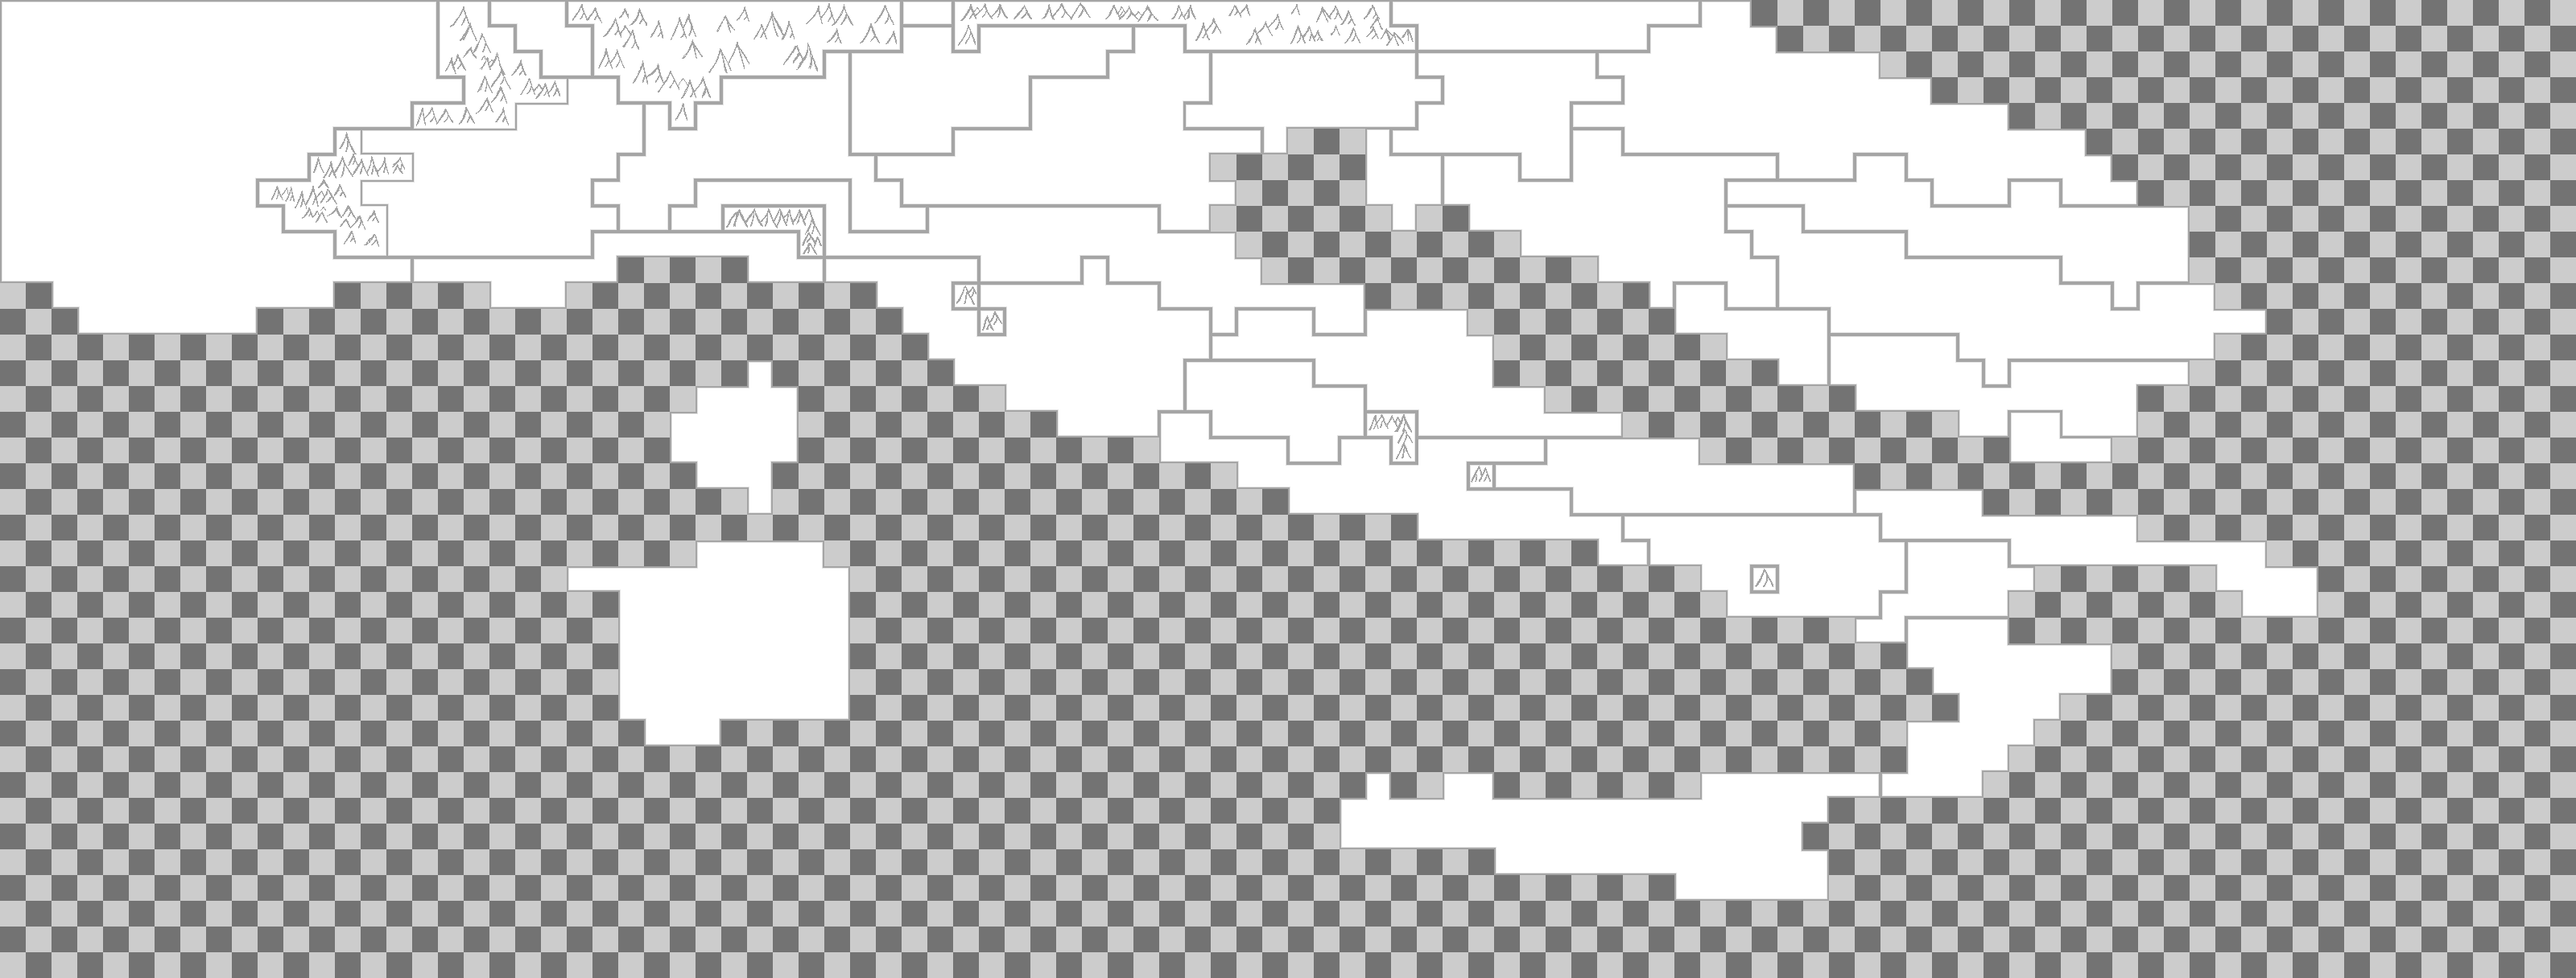
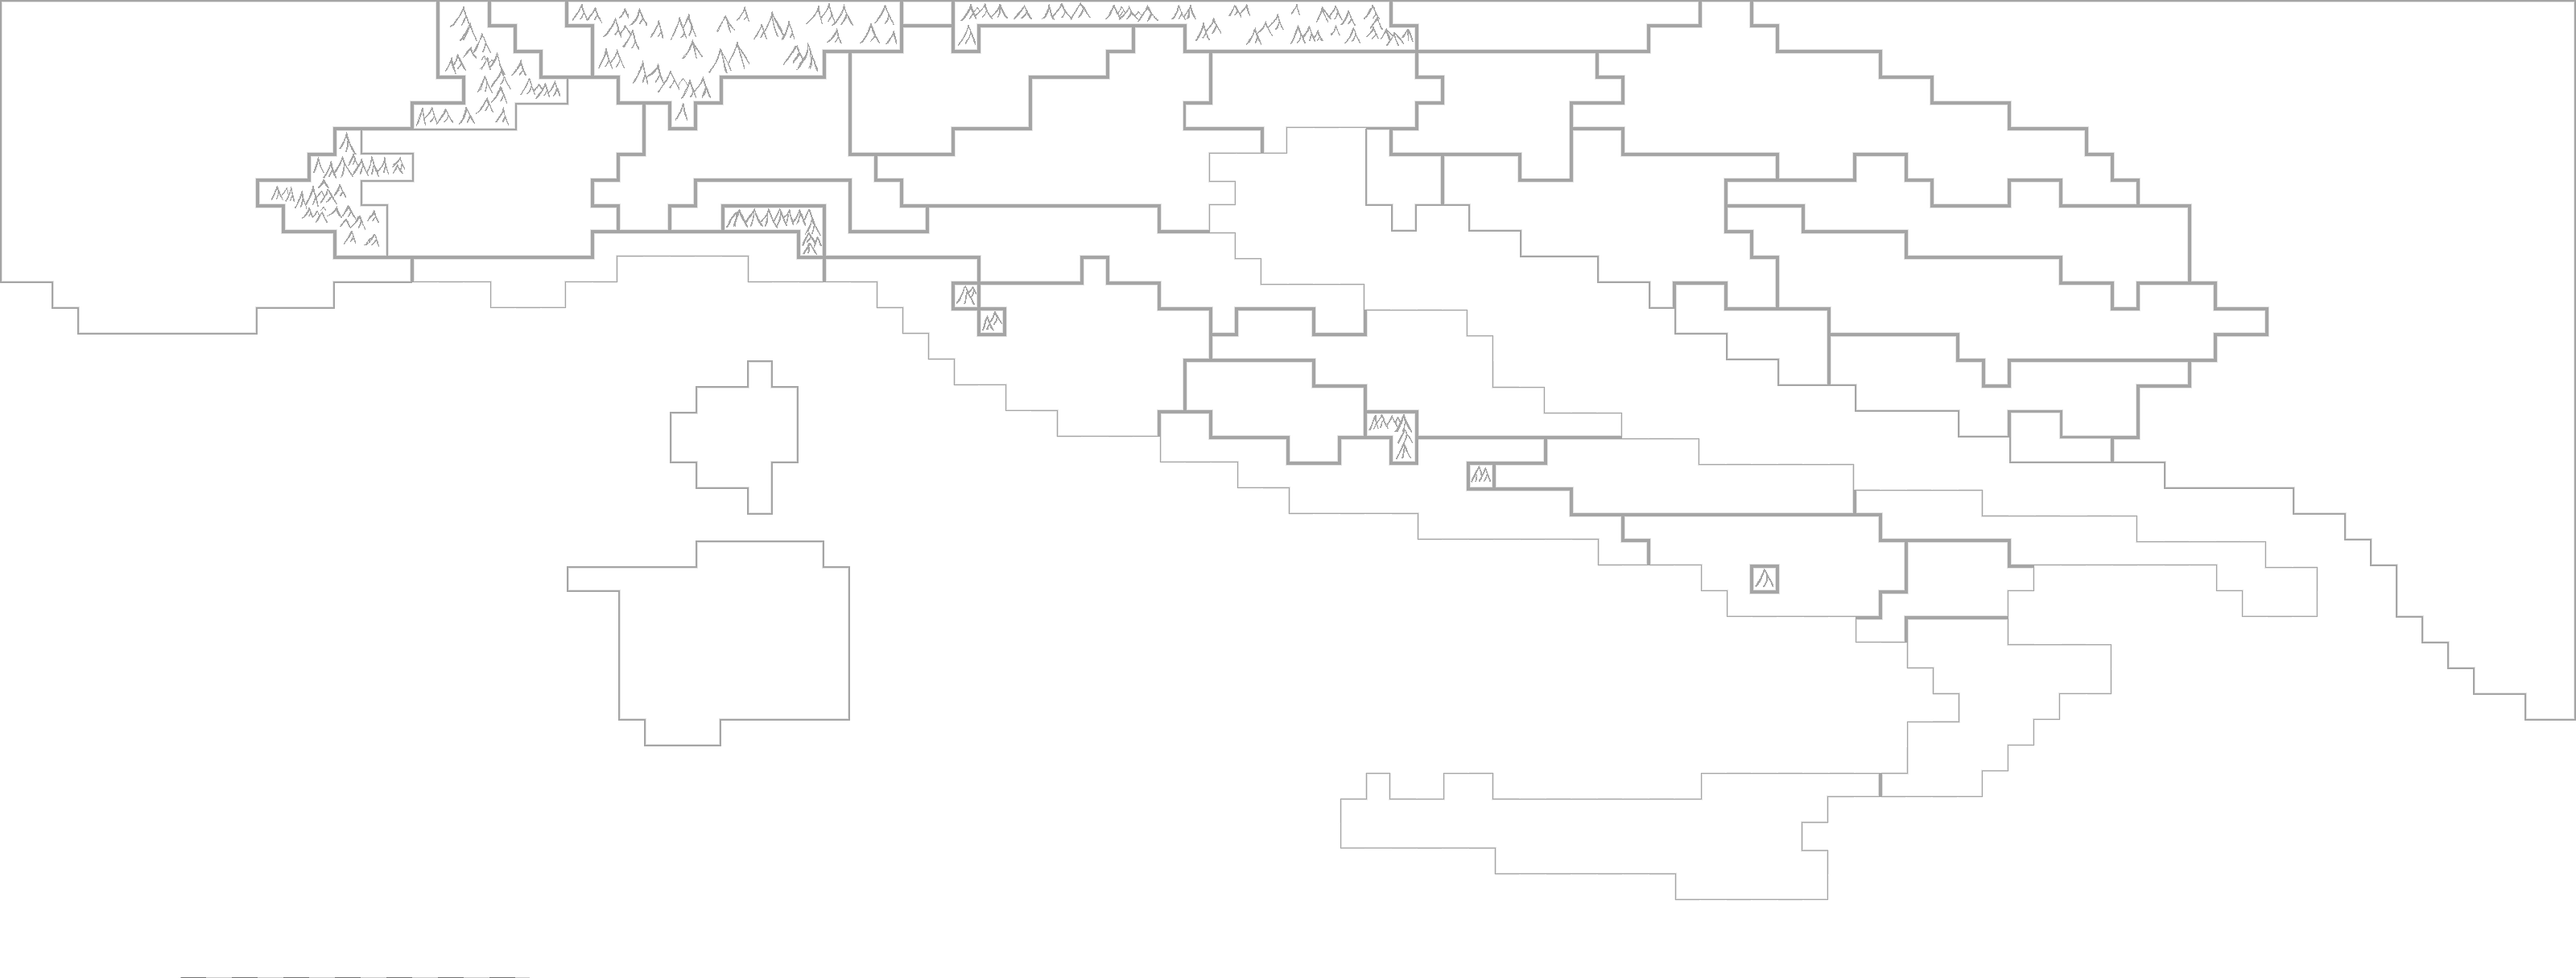
Groovy Wavy Water

diff --git a/DegreeProject/DegreeProject/Source/Game/Map/Map.cpp b/DegreeProject/DegreeProject/Source/Game/Map/Map.cpp
@@ -32,6 +32,11 @@ void Map::setLandTexture(sf::Texture tex)
 	m_Data.m_LandTexture = tex;
 }
 
+void Map::setResolution(const Vector2D& resolution)
+{
+	m_Resolution = resolution;
+}
+
 void Map::setupHotReloading()
 {
 	HotReloader::get()->subscribeToFileChange("Assets\\Data\\Regions.json", std::bind(&Map::regionsChanged, this, std::placeholders::_1, std::placeholders::_2));
@@ -39,6 +44,8 @@ void Map::setupHotReloading()
 
 	HotReloader::get()->subscribeToFileChange("Assets\\Shaders\\LandShader.frag", std::bind(&Map::shadersChanged, this, std::placeholders::_1, std::placeholders::_2));
 	HotReloader::get()->subscribeToFileChange("Assets\\Shaders\\LandShader.vert", std::bind(&Map::shadersChanged, this, std::placeholders::_1, std::placeholders::_2));
+
+	HotReloader::get()->subscribeToFileChange("Assets\\Shaders\\WaterShader.frag", std::bind(&Map::shadersChanged, this, std::placeholders::_1, std::placeholders::_2));
 }
 
 Map& Map::get()
@@ -217,9 +224,10 @@ void Map::updateRegions()
 
 void Map::render()
 {
+	//renderSquares(m_WaterVertexArray, m_WaterBaseColor, m_WaterBaseColor, m_Data.m_LandTexture, false);
+
 	renderSquares(m_MountainVertexArray, m_MountainBaseColor, m_MountainAlternateColor, m_Data.m_LandTexture, false);
 	renderSquares(m_UnreachableVertexArray, m_UnreachableLandColor, m_UnreachableLandColor, m_Data.m_LandTexture, false);
-	renderSquares(m_WaterVertexArray, m_WaterBaseColor, m_WaterBaseColor, m_Data.m_LandTexture, false);
 
 	for (auto& region : m_Data.m_Regions)
 	{
@@ -234,6 +242,25 @@ void Map::render()
 		
 		HeraldicShieldManager::renderShield(region.m_HeraldicShield, convertToScreen(region.m_RegionCapital) + Vector2D(0.0f, -32.0f));
 	}
+
+	m_WaveTime += Time::deltaTime() * m_WaveDirection;
+
+	if (m_WaveTime >= 10.0f)
+	{
+		m_WaveDirection = -1.0f;
+	}
+	else if (m_WaveTime <= 0.0f)
+	{
+		m_WaveDirection = 1.0f;
+	}
+
+	m_Data.m_WaterShader.setUniform("u_Time", m_WaveTime);
+	m_Data.m_WaterShader.setUniform("u_Resolution", sf::Glsl::Vec2( m_Resolution.x, m_Resolution.y ));
+	m_Data.m_WaterShader.setUniform("u_Wave_Speed", m_WaveSpeed);
+	m_Data.m_WaterShader.setUniform("u_Zoom_Level", m_WaveZoomLevel);
+	m_Data.m_WaterShader.setUniform("u_Color", sf::Glsl::Vec4( m_WaterBaseColor));
+
+	Window::getWindow()->draw(m_WaterVertexArray, m_Data.m_WaterRenderStates);
 }
 
 void Map::renderSquares(const sf::VertexArray& vertexArray, const sf::Color& color, const sf::Color& highlightColor, const sf::Texture& texture, const bool& highlighted)
@@ -341,6 +368,11 @@ void Map::loadShadersAndCreateRenderStates()
 	m_Data.m_Shader.loadFromFile(m_Data.m_VertexShaderPath, m_Data.m_FragmentShaderPath);
 
 	m_Data.m_RenderStates.shader = &m_Data.m_Shader;
+	m_Data.m_RenderStates.texture = &m_Data.m_LandTexture;
+
+	m_Data.m_WaterShader.loadFromFile(m_Data.m_VertexShaderPath, m_Data.m_WaterFragShaderPath);
+
+	m_Data.m_WaterRenderStates.shader = &m_Data.m_WaterShader;
 	m_Data.m_RenderStates.texture = &m_Data.m_LandTexture;
 }
 

diff --git a/DegreeProject/DegreeProject/Source/Game/Map/Map.h b/DegreeProject/DegreeProject/Source/Game/Map/Map.h
@@ -97,6 +97,7 @@ struct Map
 	static Map& get();
 	void init();
 	void setLandTexture(sf::Texture tex);
+	void setResolution(const Vector2D& resolution);
 
 	void setupHotReloading();
 	void regionsChanged(std::string path, FileStatus fileStatus);
@@ -149,11 +150,17 @@ private:
 	//Water
 	std::vector<Vector2DInt> m_WaterSquares;
 	sf::VertexArray m_WaterVertexArray;
-	sf::Color m_WaterBaseColor = sf::Color::Blue;
+	sf::Color m_WaterBaseColor = sf::Color(49, 169, 238, 255);
 
 	// Unreachable land
 	std::vector<Vector2DInt> m_UnreachableLandSquares;
 	sf::VertexArray m_UnreachableVertexArray;
 	sf::Color m_UnreachableLandColor = sf::Color(20, 60, 20, 255);
+
+	float m_WaveTime = 0.0f;
+	float m_WaveDirection = 1.0f;
+	float m_WaveSpeed = 0.2f;
+	float m_WaveZoomLevel = 25.0f;
+	Vector2D m_Resolution;
 };
 #pragma warning(pop)

diff --git a/DegreeProject/DegreeProject/Source/Game/Map/MapData.h b/DegreeProject/DegreeProject/Source/Game/Map/MapData.h
@@ -7,9 +7,12 @@ struct MapData
 	sf::Texture m_LandTexture;
 	sf::RenderStates m_RenderStates;
 	sf::Shader m_Shader;
+	sf::RenderStates m_WaterRenderStates;
+	sf::Shader m_WaterShader;
 
 	const char* m_RegionPath = "Assets/Data/Regions.json";
 	const char* m_MapPath = "Assets/Map/RegionMap.txt";
 	const char* m_FragmentShaderPath = "Assets/Shaders/LandShader.frag";
 	const char* m_VertexShaderPath = "Assets/Shaders/LandShader.vert";
+	const char* m_WaterFragShaderPath = "Assets/Shaders/WaterShader.frag";
 };

diff --git a/DegreeProject/DegreeProject/Source/Game/Game.cpp b/DegreeProject/DegreeProject/Source/Game/Game.cpp
@@ -119,6 +119,7 @@ void Game::addEntitys()
 {
 	Map::get().init();
 	Map::get().setLandTexture(m_AssetHandler->getTextureAtPath("Assets/Graphics/Checkerboard.png"));
+	Map::get().setResolution({ (float)m_Resolution.x, (float)m_Resolution.y });
 
 	const char* castlePath = "Assets/Graphics/Castle.png";
 	for (unsigned int regionIndex = 0; regionIndex < NUMBER_OF_REGIONS; regionIndex++)
